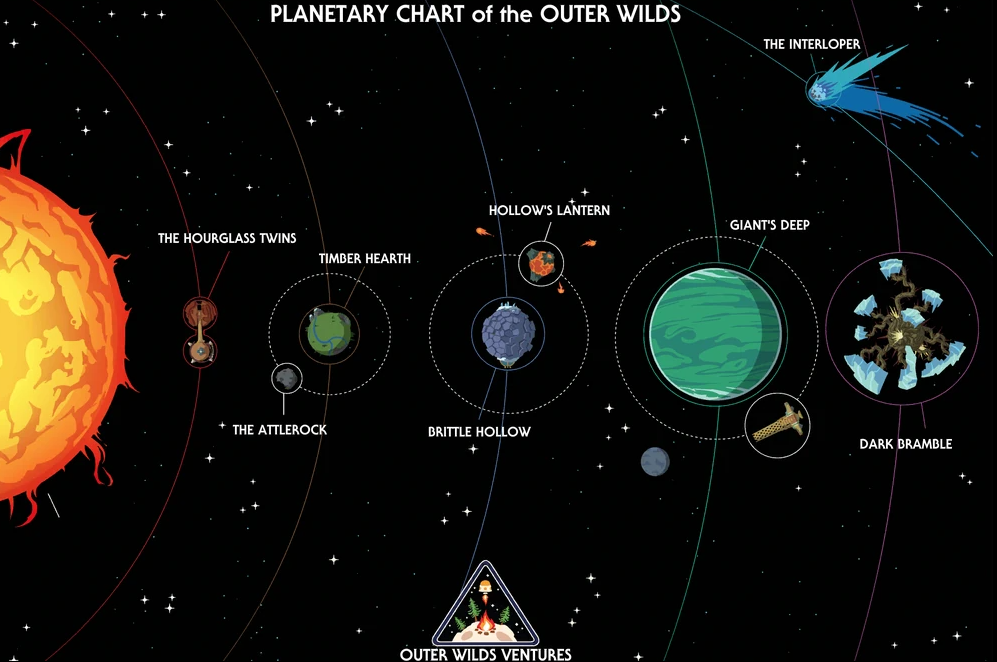
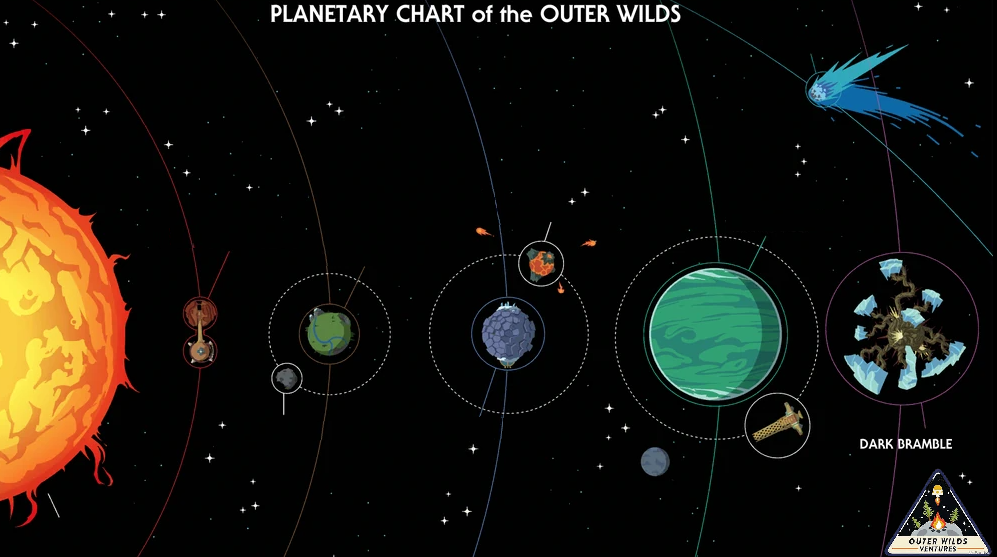
mudanças no mapa

diff --git a/index.html b/index.html
@@ -48,12 +48,7 @@
         <section id="irparaplanetas">
             <h4 class="letrasmaiores maisespaçocima">Você está pronto para seguir viagem!</h4>
             <p>clique em um planeta para viajar para ele</p>
-            <ul class="listahorizontal linkimagem">
-                <li><a href="/planetas-html/sol.html">sol</a></li>
-                <li></li>
-                <li></li>
-                <li></li>
-            </ul>
+            <!--vou colocar aqui um mapa que da pra clicar nas partes, mas tenho q fazer a imagem primeiro-->
             <img src="assets/images/mapa_sistema_solar.png" alt="Sistema solar natal dos hearthianos">
         </section>
         <!--fechamento-->

diff --git a/css/style.css b/css/style.css
@@ -52,14 +52,19 @@ body {
         padding: 0;
         justify-content: center;
     }
-    .imagemlink{
-        
-    }
     /*essa classe especificamente é pra mudar como alguns links ficam*/
     .rolardentrodapagina a {
         font-family: 'Space Mono', monospace;
         color: #7fffd4;
         text-shadow: 0 0 15px rgba(127, 255, 212, 0.8);
+    }
+    .imagemlinkaumenta img{
+        height: 100px;
+        width: auto;
+        transition: transform 0.1s ease;
+    }
+    .imagemlinkaumenta img:hover{
+        transform: scale(1.2);
     }
 }
 /* rolar suavemente*/

diff --git a/planetas-html/gemeocalido.html b/planetas-html/gemeocalido.html
@@ -11,6 +11,7 @@
         <header>
         </header>
         <main>
+            <img src="../assets/images/construcao.png" alt="em construção">
         </main>
         <script src="js/spoiler.js"></script>
     </body>

diff --git a/planetas-html/gemeocinzento.html b/planetas-html/gemeocinzento.html
@@ -11,6 +11,7 @@
         <header>
         </header>
         <main>
+            <img src="../assets/images/construcao.png" alt="em construção">
         </main>
         <script src="js/spoiler.js"></script>
     </body>

diff --git a/planetas-html/gemeosdaampulheta.html b/planetas-html/gemeosdaampulheta.html
@@ -11,6 +11,7 @@
         <header>
         </header>
         <main>
+            <img src="../assets/images/construcao.png" alt="em construção">
         </main>
         <script src="js/spoiler.js"></script>
     </body>

diff --git a/planetas-html/luaquantica.html b/planetas-html/luaquantica.html
@@ -11,6 +11,7 @@
         <header>
         </header>
         <main>
+            <img src="../assets/images/construcao.png" alt="em construção">
         </main>
         <script src="js/spoiler.js"></script>
     </body>

diff --git a/planetas-html/oxereta.html b/planetas-html/oxereta.html
@@ -11,6 +11,7 @@
         <header>
         </header>
         <main>
+            <img src="../assets/images/construcao.png" alt="em construção">
         </main>
         <script src="js/spoiler.js"></script>
     </body>

diff --git a/planetas-html/pedradelia.html b/planetas-html/pedradelia.html
@@ -11,6 +11,7 @@
         <header>
         </header>
         <main>
+            <img src="../assets/images/construcao.png" alt="em construção">
         </main>
         <script src="js/spoiler.js"></script>
     </body>

diff --git a/planetas-html/profundezasdogigante.html b/planetas-html/profundezasdogigante.html
@@ -11,6 +11,7 @@
         <header>
         </header>
         <main>
+            <img src="../assets/images/construcao.png" alt="em construção">
         </main>
         <script src="js/spoiler.js"></script>
     </body>

diff --git a/planetas-html/recantolenhoso.html b/planetas-html/recantolenhoso.html
@@ -11,6 +11,7 @@
         <header>
         </header>
         <main>
+            <img src="../assets/images/construcao.png" alt="em construção">
         </main>
         <script src="js/spoiler.js"></script>
     </body>

diff --git a/planetas-html/sol.html b/planetas-html/sol.html
@@ -11,6 +11,7 @@
         <header>
         </header>
         <main>
+            <img src="../assets/images/construcao.png" alt="em construção">
         </main>
         <script src="js/spoiler.js"></script>
     </body>

diff --git a/planetas-html/valeincerto.html b/planetas-html/valeincerto.html
@@ -11,6 +11,7 @@
         <header>
         </header>
         <main>
+            <img src="../assets/images/construcao.png" alt="em construção">
         </main>
         <script src="js/spoiler.js"></script>
     </body>
